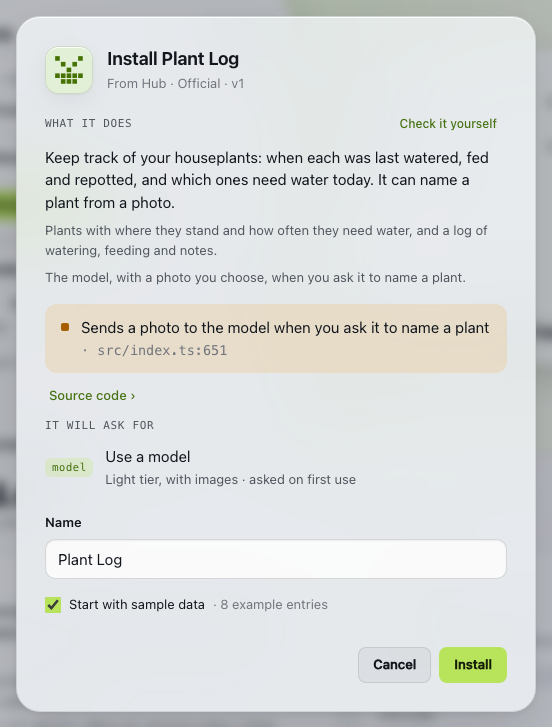
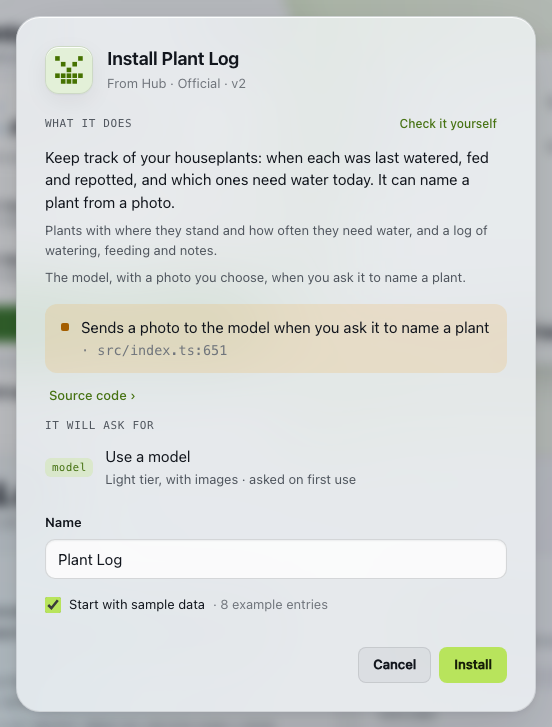
Docs for 0.4.10: screenshots after the Official tools polish
- build-second-look.png (new), in "A build": a new tool's build page with
  Reviewing the design running.
- install.png: Plant Log from the Hub is v2 now.
- spec-proposal.png: retaken. Since the host's builder joined the script
  (#43) the page kept the settings it loaded before Claude Code was
  chosen, so the card said "Remote builder builds it."; it reloads now.
  The crop reaches below the window (the box under the card had been
  cut off) and starts at the request.
- capabilities.md: Hewn implements ABI 2.5, not 2.4.

hub.png is #67's (the same picture); the other shots changed only in
their background, so they're left as they were.

diff --git a/test/e2e/docs-shots.ts b/test/e2e/docs-shots.ts
@@ -127,10 +127,11 @@ const settle = async (buildId: string) => {
   }
   throw new Error(`build ${buildId} didn't settle`);
 };
-const shot = async (name: string, opts: { width: number; height: number; clip?: { x: number; y: number; width: number; height: number } }) => {
+/** `fullPage`: the clip may reach below the window (in page coordinates). */
+const shot = async (name: string, opts: { width: number; height: number; clip?: { x: number; y: number; width: number; height: number }; fullPage?: boolean }) => {
   await page.setViewportSize({ width: opts.width, height: opts.height });
   await page.waitForTimeout(400);
-  await page.screenshot({ path: join(OUT, `${name}.png`), ...(opts.clip ? { clip: opts.clip } : {}) });
+  await page.screenshot({ path: join(OUT, `${name}.png`), ...(opts.clip ? { clip: opts.clip } : {}), ...(opts.fullPage ? { fullPage: true } : {}) });
   console.log("✔", name, opts.clip ? `${Math.round(opts.clip.width)}×${Math.round(opts.clip.height)}` : `${opts.width}×${opts.height}`);
 };
 
@@ -174,6 +175,8 @@ try {
   // 4. The spec proposal: Bike Care, in the create chat.
   await page.setViewportSize({ width: 1280, height: 1000 });
   await page.goto(`${web}/#/new`);
+  // The page reads the settings once as it loads, before Claude Code was chosen above (the host's builder, until then).
+  await page.reload();
   const box = page.locator(".composer textarea, .composer-input textarea, textarea").first();
   await box.waitFor();
   await box.fill("A tracker for my bike: rides, and remind me when the chain needs oiling.");
@@ -190,9 +193,10 @@ try {
   console.log("   boxes", JSON.stringify(boxes));
   const left = Math.min(boxes.thread!.left, boxes.composer!.left) - 16;
   const right = Math.max(boxes.thread!.right, boxes.composer!.right) + 16;
-  const top = Math.max(0, boxes.thread!.top - 40);
+  const top = Math.max(0, boxes.thread!.top - 16);
   const bottom = boxes.composer!.bottom + 20;
-  await shot("spec-proposal", { width: 1280, height: 1000, clip: { x: left, y: top + boxes.scrollY, width: right - left, height: bottom - top } });
+  // The conversation, the card and the box below it, which can reach past the window.
+  await shot("spec-proposal", { width: 1280, height: 1000, clip: { x: left, y: top + boxes.scrollY, width: right - left, height: bottom - top }, fullPage: true });
 
   // 5. A failed change to Plant Care: 1 of 3 tests didn't pass.
   const p1 = await post("/capabilities", { name: TOOLS["plant-care"].name, purpose: TOOLS["plant-care"].purpose, requirements: "plants and watering" });

diff --git a/docs/building-tools.md b/docs/building-tools.md
@@ -12,7 +12,7 @@ Paste a screenshot (Ctrl+V / ⌘V), drop files on the box, or **Attach**: a scre
 
 The agent that [builds your tools](concepts.md#hewns-two-jobs) (Settings › AI) first talks it through: it asks until the request is clear (when you'd use it, what it keeps, the main action), each question with the default it would assume, so "ok" answers them all; **Draft now** skips the rest and takes its assumptions, listed with the proposal. Then it makes a **spec proposal**: the tool, what it will do, what it needs (a site to reach, a key, another tool, a model: its [grants](concepts.md#grants)), and any widgets or [schedules](concepts.md#schedules). For a new tool the spec is a short brief, not a list of operations: what it's for, what it keeps, what you decided together, what it needs and how it should feel. The builder designs the operations and the screen from it and from your own words, so the card shows what it keeps and what's decided; **Show brief** has the whole brief. A big request can become a few small tools that work together; untick the ones you don't want. Reply to change it, or press **Build** (it says how many tools: "Build 1 tool").
 
-![A spec proposal for one tool, Bike Care: what it's for, that it needs api.open-meteo.com, what it keeps and what's decided, a weekly schedule to approve and a widget, with Keep talking and Build 1 tool; the box below has Attach](images/spec-proposal.png)
+![A spec proposal for one tool, Bike Care, under the request and the intake's reply: what it's for, that it needs api.open-meteo.com, what it keeps and what's decided, a weekly schedule to approve and a widget, with Keep talking and Build 1 tool; the box below has Attach](images/spec-proposal.png)
 
 Leave in the middle (to look something up in Activity, say) and come back, with Back or **New**: the conversation is where you left it in that browser tab, with what you'd typed and not sent, its last proposal ready to build. A reply still on its way when you left arrives there (or why it failed). It stays until you build from it or start a new one with **+ New** (top right, and it asks first; in a tool's **Change…** panel, next to ×), which keeps its own the same way. Opening one with its text already in the box (Info's **Change it**, **Ask builder to fix this**, **Ask builder** in Share…, Home's box) starts a new conversation too: the one kept is replaced once you send it. A conversation picked up with **Continue** isn't kept. While the intake is answering, **Send** is a stop button: it ends the run there and then, and your message goes back in the box with **Stopped.** above it; the note goes once you send again.
 

diff --git a/docs/using-hewn.md b/docs/using-hewn.md
@@ -99,6 +99,8 @@ A build's page lists its steps while it runs. So does the change panel while a c
 - **Reviewing the design** and **Fixing details:** a new tool's second look, and a Polish's ([The build](building-tools.md#the-build)).
 - **Your authorization:** anything new it asks for (a host, a key, another tool, a model), once it's built.
 
+![A new tool's build page, Bike Care: the builder, its model and effort, Conversation, then the steps, with Spec agreed, Writing code and Running tests done and timed, Reviewing the design running, Fixing details and Your authorization to come, and the log below](images/build-second-look.png)
+
 Each step shows how long it took, by Hewn's clock, so it's the same whenever you open the page; the running one counts up. You can leave: it keeps building. Once it's live, the log folds under **Show log**. A failed build says why (in the second look, which step), with its log open, **Ask builder to fix** and **Retry**. A build a host's builder paused shows the host's note with **Continue** and **Stop** ([When a build fails](building-tools.md#when-a-build-fails)).
 
 ## Agents and Accounts

diff --git a/docs/capabilities.md b/docs/capabilities.md
@@ -64,4 +64,4 @@ From a checkout of the repo: `hewn install seeds/habits`.
 
 ## Reference
 
-The manifest and the ABI (the module, `ctx`, environment, versions) are described in full in [capability-model.md](../spec/capability-model.md#capability-manifest). Hewn implements ABI 2.4. A capability declares the lowest version it needs in `"abi"`; minor versions only add, so a capability built for 2.0 keeps running.
+The manifest and the ABI (the module, `ctx`, environment, versions) are described in full in [capability-model.md](../spec/capability-model.md#capability-manifest). Hewn implements ABI 2.5. A capability declares the lowest version it needs in `"abi"`; minor versions only add, so a capability built for 2.0 keeps running.
